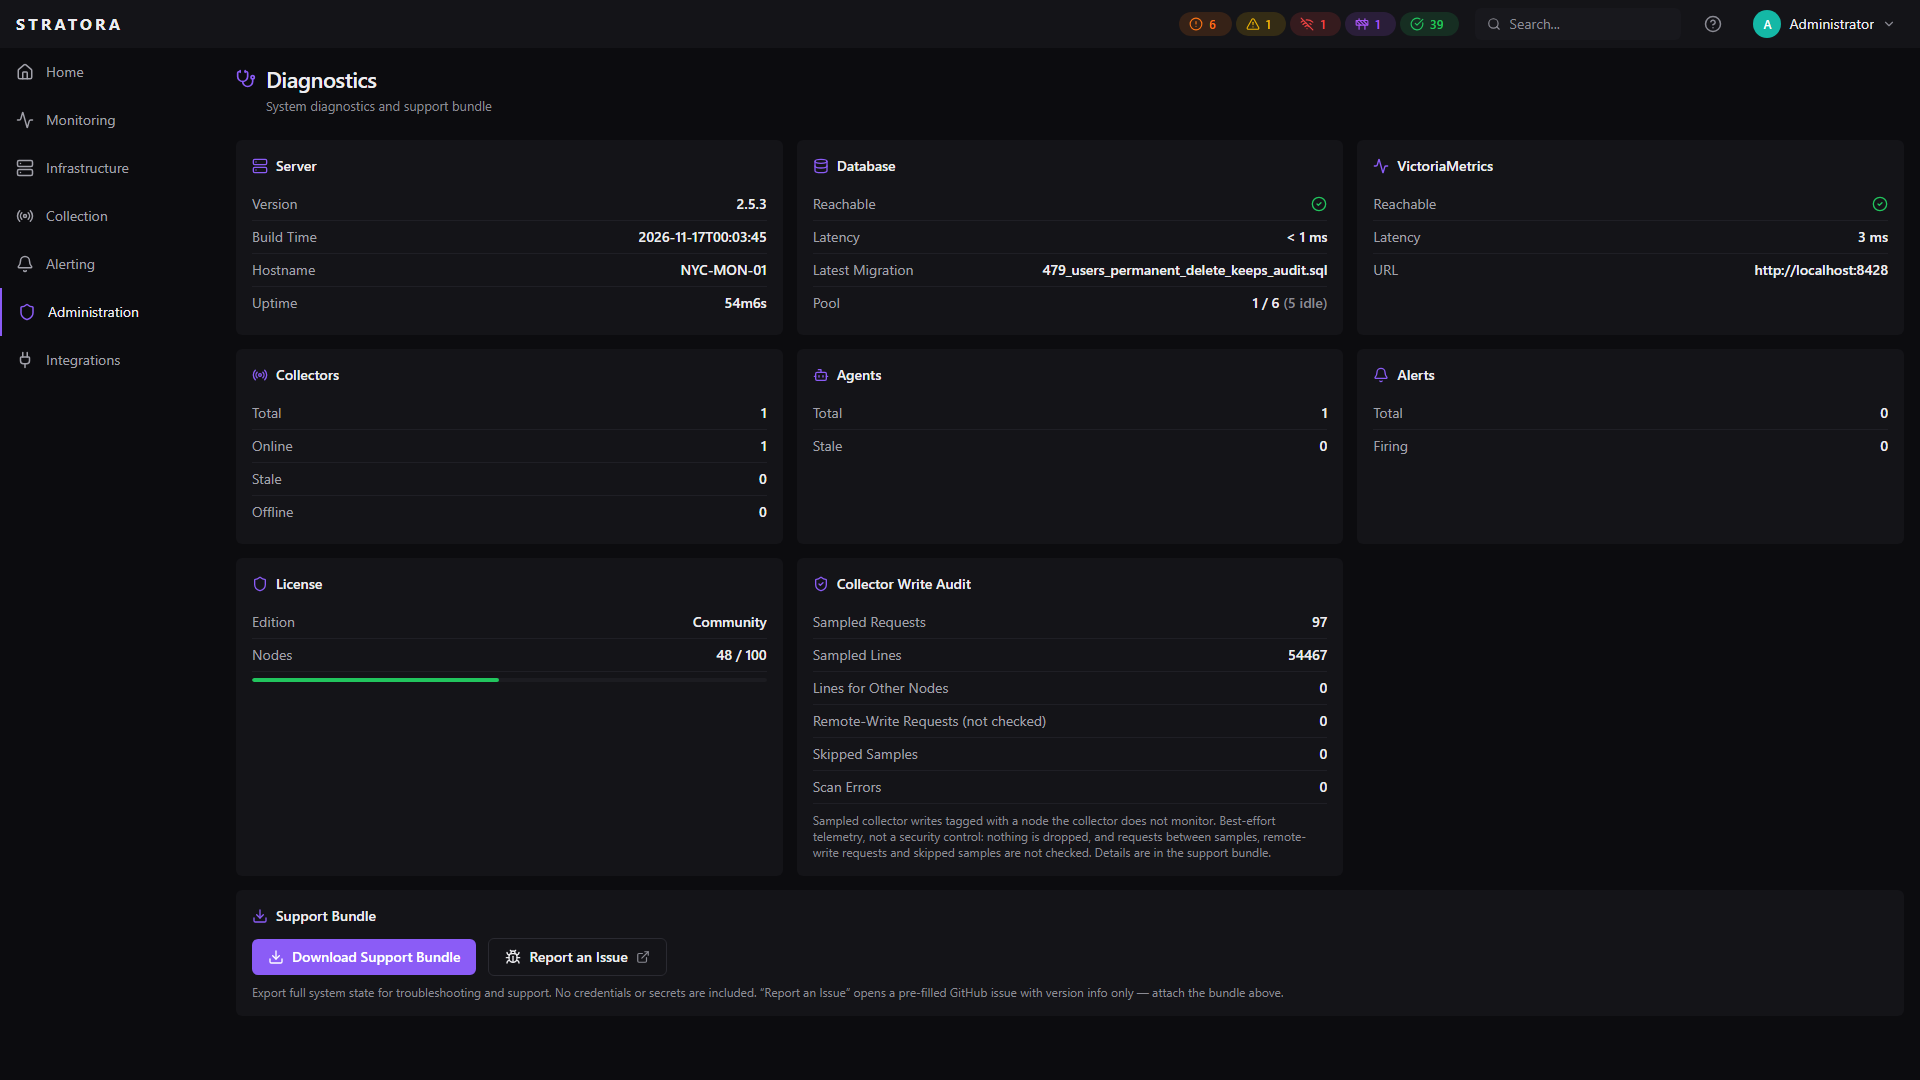
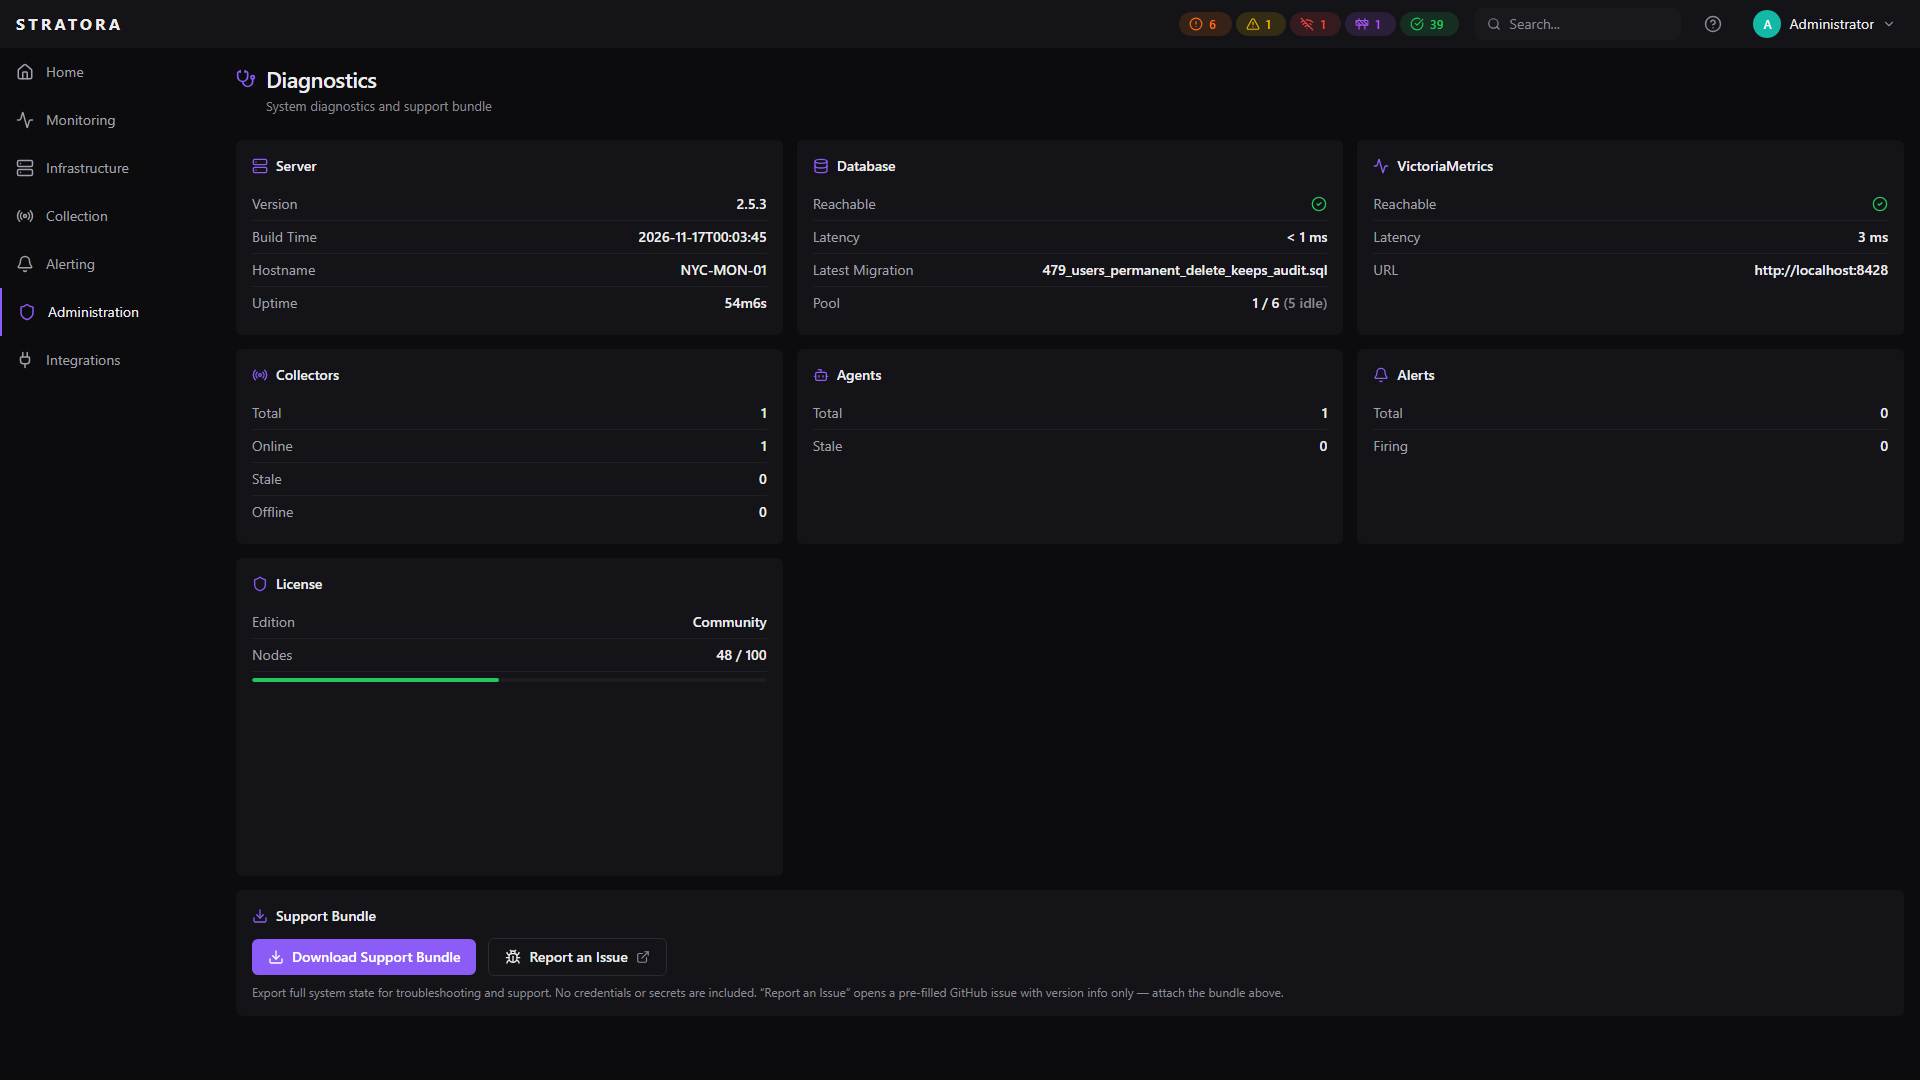
docs: hold pre-2.5.3 security wording on the SSL/TLS page until the release; leave the Collector Write Audit card out of the Diagnostics screenshot

Changed region(s): [[0.4062, 0.5194, 0.6875, 0.7944], [0.6562, 0.5806, 0.6875, 0.6111]]

diff --git a/docs/administration/ssl-tls-certificates.md b/docs/administration/ssl-tls-certificates.md
@@ -119,13 +119,13 @@ DNS provider credentials are encrypted at rest with AES-256-GCM.
 
 Route 53 DNS validation runs the AWS CLI (`aws.exe`). Stratora uses either the copy the Server installs in the `aws-cli` folder of its install folder, or an AWS CLI v2 installed with its MSI in `C:\Program Files\Amazon\AWSCLIV2`. It uses a copy only from a folder that nobody but SYSTEM, Administrators and TrustedInstaller can change, and that includes the folders above it. It never uses an `aws` found on the PATH. Without such a copy, Route 53 DNS validation refuses to run: the provider test (**Test connection** on the provider card) and the SSL/TLS page show a message that names the cause and the steps to fix it. Other DNS providers are not affected.
 
-**A server installed in `C:\Stratora`.** There, the bundled `aws-cli` folder inherits rights from `C:\` that let other users add files to it, so it is refused. Do not change its permissions in place. Instead:
+**A server installed in `C:\Stratora`.** There, the bundled `aws-cli` folder is refused. Do not change its permissions in place. Instead:
 
 1. Install the AWS CLI v2 with its MSI from AWS. It installs to `C:\Program Files\Amazon\AWSCLIV2`, which Stratora uses next.
 2. Restart the Stratora backend (`Restart-Service StratoraBackend` from PowerShell opened with **Run as administrator**).
 3. Run **Test connection** on the Route 53 provider. It must succeed.
 
-**The owner of `C:\`.** On a standard Windows install the root of the system drive is owned by TrustedInstaller. If `C:\` has a different owner, Route 53 DNS validation refuses to run. Before 2.5.3 Stratora did not check this, so Route 53 validation that worked before an upgrade to 2.5.3 can stop after it. With such an owner, the server can also log an "install folder permissions" warning that names `C:\` and its owner. To check the owner, run this in PowerShell:
+**The owner of `C:\`.** On a standard Windows install the root of the system drive is owned by TrustedInstaller. If `C:\` has a different owner, Route 53 DNS validation refuses to run. Route 53 validation that worked before an upgrade to 2.5.3 can stop after it. With such an owner, the server can also log an "install folder permissions" warning that names `C:\` and its owner. To check the owner, run this in PowerShell:
 
 ```powershell
 (Get-Acl C:\).Owner
